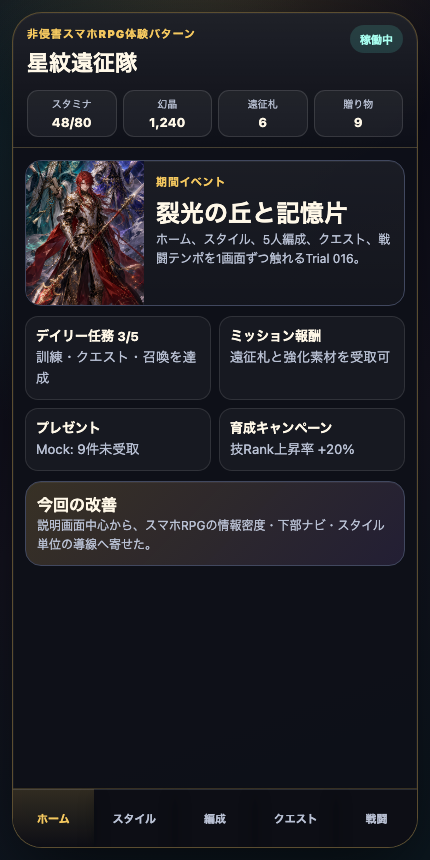
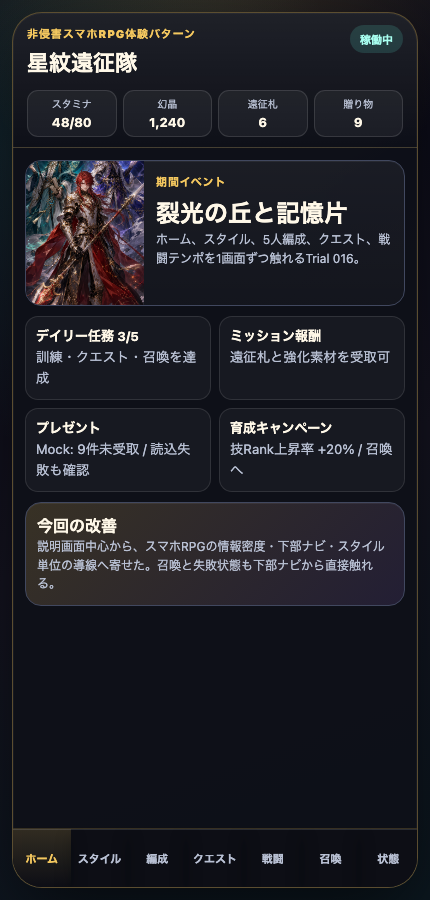
feat: improve sagaforge trial016 playable navigation

diff --git a/playables/sagaforge-app/index.html b/playables/sagaforge-app/index.html
@@ -5,7 +5,7 @@
   <meta name="viewport" content="width=device-width, initial-scale=1" />
   <title>星紋遠征隊 SagaForge Trial 016</title>
   <style>
-    :root{--bg:#060713;--surface:#151823;--surface2:#22283a;--panel:#10131e;--line:#41485f;--text:#fff8e8;--muted:#b9c1d4;--accent:#f4c85f;--accent2:#5be7d2;--accent3:#b987ff;--danger:#ff6b7c;--ok:#7df29b}*{box-sizing:border-box}body{margin:0;min-height:100vh;background:radial-gradient(circle at 50% -10%,rgba(244,200,95,.22),transparent 30%),radial-gradient(circle at 10% 15%,rgba(91,231,210,.13),transparent 36%),linear-gradient(160deg,#060713,#151421 55%,#0c1820);color:var(--text);font-family:system-ui,-apple-system,BlinkMacSystemFont,"Segoe UI",sans-serif}.wrap{min-height:100vh;display:flex;justify-content:center;padding:12px}.phone{width:min(100%,430px);min-height:calc(100vh - 24px);border:1px solid rgba(244,200,95,.34);border-radius:30px;overflow:hidden;background:rgba(13,15,24,.97);box-shadow:0 26px 80px rgba(0,0,0,.58),inset 0 0 0 1px rgba(255,255,255,.04);position:relative}header{padding:12px 14px 10px;border-bottom:1px solid rgba(244,200,95,.18);background:linear-gradient(180deg,rgba(255,255,255,.07),transparent)}h1,h2,h3,p{margin:0}.top{display:flex;align-items:flex-start;justify-content:space-between;gap:10px}.eyebrow{margin-bottom:5px;color:var(--accent);font-size:11px;font-weight:900;letter-spacing:.08em;text-transform:uppercase}h1{font-size:22px}.status{display:inline-flex;align-items:center;border-radius:999px;min-height:28px;padding:0 10px;background:rgba(91,231,210,.16);color:#a8fff0;font-size:11px;font-weight:900}.resources{display:grid;grid-template-columns:repeat(4,1fr);gap:6px;margin-top:10px}.resource{border:1px solid rgba(255,255,255,.12);border-radius:11px;background:rgba(255,255,255,.05);padding:6px;text-align:center}.resource span{display:block;color:var(--muted);font-size:10px}.resource b{font-size:13px}.content{padding:12px 12px 80px}.screen{display:none;gap:10px}.screen.active{display:grid}.bottom-nav{position:absolute;left:0;right:0;bottom:0;display:grid;grid-template-columns:repeat(5,1fr);gap:0;border-top:1px solid rgba(244,200,95,.2);background:rgba(12,14,21,.96);backdrop-filter:blur(10px);z-index:5}.bottom-nav button{border:0;border-radius:0;min-height:58px;padding:6px 2px;background:transparent;color:var(--muted);font:inherit;font-size:11px;font-weight:900}.bottom-nav button.active{color:var(--accent);background:linear-gradient(180deg,rgba(244,200,95,.16),transparent)}button{cursor:pointer;border:0;border-radius:999px;min-height:38px;padding:0 13px;background:linear-gradient(180deg,#354057,#202637);color:var(--text);font:inherit;font-weight:900;box-shadow:inset 0 1px 0 rgba(255,255,255,.13),0 7px 15px rgba(0,0,0,.25)}button.primary{background:linear-gradient(180deg,#ffe293,#d7961c);color:#271704}.card,.panel,.banner{border:1px solid var(--line);border-radius:16px;background:linear-gradient(180deg,rgba(255,255,255,.055),rgba(255,255,255,.025));box-shadow:inset 0 1px 0 rgba(255,255,255,.06)}.panel{padding:12px}.muted{color:var(--muted);font-size:12px;line-height:1.55}.hero{display:grid;grid-template-columns:118px 1fr;min-height:146px;overflow:hidden}.art{background-size:cover;background-position:center;min-height:120px}.hero-copy{padding:12px}.banner{padding:11px;background:linear-gradient(135deg,rgba(244,200,95,.18),rgba(185,135,255,.12))}.home-grid{display:grid;grid-template-columns:1fr 1fr;gap:8px}.mission{padding:10px;border-radius:13px;border:1px solid rgba(255,255,255,.11);background:rgba(255,255,255,.04)}.mission b{display:block;font-size:13px}.mission small{color:var(--muted)}.styles{display:grid;gap:8px}.style-card{display:grid;grid-template-columns:52px 1fr auto;gap:9px;align-items:center;padding:9px;border:1px solid rgba(255,255,255,.12);border-radius:15px;background:linear-gradient(135deg,rgba(244,200,95,.12),rgba(91,231,210,.05))}.portrait{width:52px;height:52px;border-radius:15px;background:radial-gradient(circle at 35% 20%,#fff3bd,transparent 18%),linear-gradient(140deg,#6047b8,#151823 58%,#d99c2f);border:1px solid rgba(244,200,95,.35)}.tags{display:flex;flex-wrap:wrap;gap:4px;margin-top:4px}.tag{font-size:10px;border:1px solid rgba(255,255,255,.16);border-radius:999px;padding:2px 6px;color:#dce5ff;background:rgba(0,0,0,.16)}.rarity{color:var(--accent);font-weight:1000;font-size:13px;text-align:right}.party-art{border-radius:16px;min-height:110px;border:1px solid var(--line)}.formation{display:grid;grid-template-columns:1fr 1fr;gap:8px}.slot{min-height:80px;border:1px solid rgba(255,255,255,.14);border-radius:14px;background:rgba(255,255,255,.045);padding:8px;position:relative}.slot.front{border-color:rgba(244,200,95,.45)}.slot span{display:inline-block;color:var(--accent2);font-size:10px;font-weight:900}.slot b{display:block;font-size:13px}.slot small{color:var(--muted)}.slot button{min-height:26px;font-size:10px;padding:0 8px;margin-top:5px}.power{display:grid;grid-template-columns:1fr 1fr;gap:8px}.metric{border:1px solid rgba(255,255,255,.12);border-radius:12px;padding:8px;background:rgba(255,255,255,.04)}.metric span{display:block;color:var(--muted);font-size:10px}.metric b{font-size:16px}.quests{display:grid;gap:8px}.quest{display:grid;grid-template-columns:1fr auto;gap:8px;align-items:center;padding:10px;border:1px solid rgba(255,255,255,.12);border-radius:14px;background:rgba(255,255,255,.04)}.quest.selected{border-color:rgba(244,200,95,.75);background:rgba(244,200,95,.12)}.quest small{color:var(--muted)}.battle-stage{min-height:178px;border:1px solid var(--line);border-radius:18px;background-size:cover;background-position:center;position:relative;overflow:hidden}.round{position:absolute;left:10px;top:9px;background:rgba(0,0,0,.5);border:1px solid rgba(244,200,95,.38);border-radius:999px;padding:5px 9px;font-size:11px;font-weight:900}.enemy-row{position:absolute;right:14px;top:44px;display:flex;gap:5px}.enemy{width:70px;height:82px;background-size:contain;background-repeat:no-repeat;background-position:center bottom;filter:drop-shadow(0 10px 18px rgba(0,0,0,.55));position:relative}.enemy span{position:absolute;left:-8px;right:-8px;bottom:-16px;text-align:center;font-size:10px;font-weight:900}.heroes{position:absolute;left:12px;right:12px;bottom:14px;display:flex;justify-content:space-between}.heroes span{width:42px;height:42px;border-radius:50%;display:grid;place-items:center;background:linear-gradient(160deg,#ffe19a,#684baf);border:2px solid rgba(255,255,255,.34);font-size:12px;font-weight:900}.flash{position:absolute;left:50%;top:48%;transform:translate(-50%,-50%);border-radius:999px;padding:8px 14px;background:rgba(244,200,95,.9);color:#201000;font-weight:1000;opacity:0;transition:.25s}.flash.show{opacity:1}.bars{display:grid;gap:6px}.bar{height:26px;border:1px solid rgba(255,255,255,.12);border-radius:999px;overflow:hidden;background:#151923;position:relative}.bar i{display:block;height:100%;background:linear-gradient(90deg,#63f0a1,#20b869)}.bar i.enemybar{background:linear-gradient(90deg,#ff9d6b,#e64765)}.bar b,.bar strong{position:absolute;top:4px;font-size:11px}.bar b{left:9px}.bar strong{right:9px}.command-grid{display:grid;grid-template-columns:1fr 1fr;gap:8px}.command-grid button{border-radius:14px;min-height:48px}.bp{color:var(--accent2);font-size:11px}.logs{max-height:126px;overflow:auto;margin:0;padding:0;list-style:none;display:grid;gap:6px}.logs li{border:1px solid rgba(255,255,255,.1);border-radius:10px;padding:7px;background:rgba(0,0,0,.18);font-size:12px}.results{display:grid;grid-template-columns:repeat(2,1fr);gap:8px}.result{min-height:82px;border:1px solid rgba(255,255,255,.13);border-radius:14px;padding:9px;background:linear-gradient(140deg,rgba(244,200,95,.12),rgba(185,135,255,.11))}.result span{display:inline-block;color:var(--accent);font-weight:1000}.result b{display:block}.result small{color:var(--muted)}.summon{display:grid;place-items:center;min-height:170px;border-radius:18px;border:1px solid var(--line)}.orb{width:126px;height:126px;border-radius:50%;display:grid;place-items:center;background:radial-gradient(circle,#fff2b6,#d4931d 48%,rgba(185,135,255,.5));color:#211000;font-weight:1000;box-shadow:0 0 42px rgba(244,200,95,.38)}.state-grid{display:grid;grid-template-columns:1fr 1fr;gap:8px}.danger{border-color:rgba(255,107,124,.55);background:rgba(255,107,124,.12)}.reward{border-color:rgba(125,242,155,.45);background:rgba(125,242,155,.1)}
+    :root{--bg:#060713;--surface:#151823;--surface2:#22283a;--panel:#10131e;--line:#41485f;--text:#fff8e8;--muted:#b9c1d4;--accent:#f4c85f;--accent2:#5be7d2;--accent3:#b987ff;--danger:#ff6b7c;--ok:#7df29b}*{box-sizing:border-box}body{margin:0;min-height:100vh;background:radial-gradient(circle at 50% -10%,rgba(244,200,95,.22),transparent 30%),radial-gradient(circle at 10% 15%,rgba(91,231,210,.13),transparent 36%),linear-gradient(160deg,#060713,#151421 55%,#0c1820);color:var(--text);font-family:system-ui,-apple-system,BlinkMacSystemFont,"Segoe UI",sans-serif}.wrap{min-height:100vh;display:flex;justify-content:center;padding:12px}.phone{width:min(100%,430px);min-height:calc(100vh - 24px);border:1px solid rgba(244,200,95,.34);border-radius:30px;overflow:hidden;background:rgba(13,15,24,.97);box-shadow:0 26px 80px rgba(0,0,0,.58),inset 0 0 0 1px rgba(255,255,255,.04);position:relative}header{padding:12px 14px 10px;border-bottom:1px solid rgba(244,200,95,.18);background:linear-gradient(180deg,rgba(255,255,255,.07),transparent)}h1,h2,h3,p{margin:0}.top{display:flex;align-items:flex-start;justify-content:space-between;gap:10px}.eyebrow{margin-bottom:5px;color:var(--accent);font-size:11px;font-weight:900;letter-spacing:.08em;text-transform:uppercase}h1{font-size:22px}.status{display:inline-flex;align-items:center;border-radius:999px;min-height:28px;padding:0 10px;background:rgba(91,231,210,.16);color:#a8fff0;font-size:11px;font-weight:900}.resources{display:grid;grid-template-columns:repeat(4,1fr);gap:6px;margin-top:10px}.resource{border:1px solid rgba(255,255,255,.12);border-radius:11px;background:rgba(255,255,255,.05);padding:6px;text-align:center}.resource span{display:block;color:var(--muted);font-size:10px}.resource b{font-size:13px}.content{padding:12px 12px 80px}.screen{display:none;gap:10px}.screen.active{display:grid}.bottom-nav{position:absolute;left:0;right:0;bottom:0;display:grid;grid-template-columns:repeat(7,1fr);gap:0;border-top:1px solid rgba(244,200,95,.2);background:rgba(12,14,21,.96);backdrop-filter:blur(10px);z-index:5}.bottom-nav button{border:0;border-radius:0;min-height:58px;padding:6px 2px;background:transparent;color:var(--muted);font:inherit;font-size:11px;font-weight:900}.bottom-nav button.active{color:var(--accent);background:linear-gradient(180deg,rgba(244,200,95,.16),transparent)}button{cursor:pointer;border:0;border-radius:999px;min-height:38px;padding:0 13px;background:linear-gradient(180deg,#354057,#202637);color:var(--text);font:inherit;font-weight:900;box-shadow:inset 0 1px 0 rgba(255,255,255,.13),0 7px 15px rgba(0,0,0,.25)}button.primary{background:linear-gradient(180deg,#ffe293,#d7961c);color:#271704}.card,.panel,.banner{border:1px solid var(--line);border-radius:16px;background:linear-gradient(180deg,rgba(255,255,255,.055),rgba(255,255,255,.025));box-shadow:inset 0 1px 0 rgba(255,255,255,.06)}.panel{padding:12px}.muted{color:var(--muted);font-size:12px;line-height:1.55}.hero{display:grid;grid-template-columns:118px 1fr;min-height:146px;overflow:hidden}.art{background-size:cover;background-position:center;min-height:120px}.hero-copy{padding:12px}.banner{padding:11px;background:linear-gradient(135deg,rgba(244,200,95,.18),rgba(185,135,255,.12))}.home-grid{display:grid;grid-template-columns:1fr 1fr;gap:8px}.mission{padding:10px;border-radius:13px;border:1px solid rgba(255,255,255,.11);background:rgba(255,255,255,.04)}.mission b{display:block;font-size:13px}.mission small{color:var(--muted)}.styles{display:grid;gap:8px}.style-card{display:grid;grid-template-columns:52px 1fr auto;gap:9px;align-items:center;padding:9px;border:1px solid rgba(255,255,255,.12);border-radius:15px;background:linear-gradient(135deg,rgba(244,200,95,.12),rgba(91,231,210,.05))}.portrait{width:52px;height:52px;border-radius:15px;background:radial-gradient(circle at 35% 20%,#fff3bd,transparent 18%),linear-gradient(140deg,#6047b8,#151823 58%,#d99c2f);border:1px solid rgba(244,200,95,.35)}.tags{display:flex;flex-wrap:wrap;gap:4px;margin-top:4px}.tag{font-size:10px;border:1px solid rgba(255,255,255,.16);border-radius:999px;padding:2px 6px;color:#dce5ff;background:rgba(0,0,0,.16)}.rarity{color:var(--accent);font-weight:1000;font-size:13px;text-align:right}.party-art{border-radius:16px;min-height:110px;border:1px solid var(--line)}.formation{display:grid;grid-template-columns:1fr 1fr;gap:8px}.slot{min-height:80px;border:1px solid rgba(255,255,255,.14);border-radius:14px;background:rgba(255,255,255,.045);padding:8px;position:relative}.slot.front{border-color:rgba(244,200,95,.45)}.slot span{display:inline-block;color:var(--accent2);font-size:10px;font-weight:900}.slot b{display:block;font-size:13px}.slot small{color:var(--muted)}.slot button{min-height:26px;font-size:10px;padding:0 8px;margin-top:5px}.power{display:grid;grid-template-columns:1fr 1fr;gap:8px}.metric{border:1px solid rgba(255,255,255,.12);border-radius:12px;padding:8px;background:rgba(255,255,255,.04)}.metric span{display:block;color:var(--muted);font-size:10px}.metric b{font-size:16px}.quests{display:grid;gap:8px}.quest{display:grid;grid-template-columns:1fr auto;gap:8px;align-items:center;padding:10px;border:1px solid rgba(255,255,255,.12);border-radius:14px;background:rgba(255,255,255,.04)}.quest.selected{border-color:rgba(244,200,95,.75);background:rgba(244,200,95,.12)}.quest small{color:var(--muted)}.battle-stage{min-height:178px;border:1px solid var(--line);border-radius:18px;background-size:cover;background-position:center;position:relative;overflow:hidden}.round{position:absolute;left:10px;top:9px;background:rgba(0,0,0,.5);border:1px solid rgba(244,200,95,.38);border-radius:999px;padding:5px 9px;font-size:11px;font-weight:900}.enemy-row{position:absolute;right:14px;top:44px;display:flex;gap:5px}.enemy{width:70px;height:82px;background-size:contain;background-repeat:no-repeat;background-position:center bottom;filter:drop-shadow(0 10px 18px rgba(0,0,0,.55));position:relative}.enemy span{position:absolute;left:-8px;right:-8px;bottom:-16px;text-align:center;font-size:10px;font-weight:900}.heroes{position:absolute;left:12px;right:12px;bottom:14px;display:flex;justify-content:space-between}.heroes span{width:42px;height:42px;border-radius:50%;display:grid;place-items:center;background:linear-gradient(160deg,#ffe19a,#684baf);border:2px solid rgba(255,255,255,.34);font-size:12px;font-weight:900}.flash{position:absolute;left:50%;top:48%;transform:translate(-50%,-50%);border-radius:999px;padding:8px 14px;background:rgba(244,200,95,.9);color:#201000;font-weight:1000;opacity:0;transition:.25s}.flash.show{opacity:1}.bars{display:grid;gap:6px}.bar{height:26px;border:1px solid rgba(255,255,255,.12);border-radius:999px;overflow:hidden;background:#151923;position:relative}.bar i{display:block;height:100%;background:linear-gradient(90deg,#63f0a1,#20b869)}.bar i.enemybar{background:linear-gradient(90deg,#ff9d6b,#e64765)}.bar b,.bar strong{position:absolute;top:4px;font-size:11px}.bar b{left:9px}.bar strong{right:9px}.command-grid{display:grid;grid-template-columns:1fr 1fr;gap:8px}.command-grid button{border-radius:14px;min-height:48px}.bp{color:var(--accent2);font-size:11px}.logs{max-height:126px;overflow:auto;margin:0;padding:0;list-style:none;display:grid;gap:6px}.logs li{border:1px solid rgba(255,255,255,.1);border-radius:10px;padding:7px;background:rgba(0,0,0,.18);font-size:12px}.results{display:grid;grid-template-columns:repeat(2,1fr);gap:8px}.result{min-height:82px;border:1px solid rgba(255,255,255,.13);border-radius:14px;padding:9px;background:linear-gradient(140deg,rgba(244,200,95,.12),rgba(185,135,255,.11))}.result span{display:inline-block;color:var(--accent);font-weight:1000}.result b{display:block}.result small{color:var(--muted)}.summon{display:grid;place-items:center;min-height:170px;border-radius:18px;border:1px solid var(--line)}.orb{width:126px;height:126px;border-radius:50%;display:grid;place-items:center;background:radial-gradient(circle,#fff2b6,#d4931d 48%,rgba(185,135,255,.5));color:#211000;font-weight:1000;box-shadow:0 0 42px rgba(244,200,95,.38)}.state-grid{display:grid;grid-template-columns:1fr 1fr;gap:8px}.danger{border-color:rgba(255,107,124,.55);background:rgba(255,107,124,.12)}.reward{border-color:rgba(125,242,155,.45);background:rgba(125,242,155,.1)}
   </style>
 </head>
 <body>
@@ -17,8 +17,8 @@
   <section class="content">
     <div class="screen active" id="home">
       <div class="card hero"><div class="art key" style="background-image:url(assets/party-key-art.png)"></div><div class="hero-copy"><p class="eyebrow">期間イベント</p><h2>裂光の丘と記憶片</h2><p class="muted">ホーム、スタイル、5人編成、クエスト、戦闘テンポを1画面ずつ触れるTrial 016。</p></div></div>
-      <div class="home-grid"><div class="mission"><b>デイリー任務 3/5</b><small>訓練・クエスト・召喚を達成</small></div><div class="mission"><b>ミッション報酬</b><small>遠征札と強化素材を受取可</small></div><div class="mission"><b>プレゼント</b><small>Mock: 9件未受取</small></div><div class="mission"><b>育成キャンペーン</b><small>技Rank上昇率 +20%</small></div></div>
-      <div class="banner"><b>今回の改善</b><p class="muted">説明画面中心から、スマホRPGの情報密度・下部ナビ・スタイル単位の導線へ寄せた。</p></div>
+      <div class="home-grid"><div class="mission" onclick="go('styles')"><b>デイリー任務 3/5</b><small>訓練・クエスト・召喚を達成</small></div><div class="mission" onclick="go('quests')"><b>ミッション報酬</b><small>遠征札と強化素材を受取可</small></div><div class="mission" onclick="go('state')"><b>プレゼント</b><small>Mock: 9件未受取 / 読込失敗も確認</small></div><div class="mission" onclick="go('gacha')"><b>育成キャンペーン</b><small>技Rank上昇率 +20% / 召喚へ</small></div></div>
+      <div class="banner"><b>今回の改善</b><p class="muted">説明画面中心から、スマホRPGの情報密度・下部ナビ・スタイル単位の導線へ寄せた。召喚と失敗状態も下部ナビから直接触れる。</p></div>
     </div>
 
     <div class="screen" id="styles">
@@ -62,7 +62,7 @@
   <nav class="bottom-nav" id="tabs"></nav>
 </main></div>
 <script>
-const tabs=[['home','ホーム'],['styles','スタイル'],['party','編成'],['quests','クエスト'],['battle','戦闘']];
+const tabs=[['home','ホーム'],['styles','スタイル'],['party','編成'],['quests','クエスト'],['battle','戦闘'],['gacha','召喚'],['state','状態']];
 const styles=[
  {name:'紅槍リオ【朱き先陣】',rare:'SS',role:'前衛',weapon:'槍',attr:'火',power:9120,lv:42,rank:18,limit:2},
  {name:'翠策ミナ【風読みの軍師】',rare:'SS',role:'支援',weapon:'杖',attr:'風',power:8840,lv:41,rank:16,limit:1},

diff --git a/preview/sagaforge-app/index.html b/preview/sagaforge-app/index.html
@@ -5,7 +5,7 @@
   <meta name="viewport" content="width=device-width, initial-scale=1" />
   <title>星紋遠征隊 SagaForge Trial 016</title>
   <style>
-    :root{--bg:#060713;--surface:#151823;--surface2:#22283a;--panel:#10131e;--line:#41485f;--text:#fff8e8;--muted:#b9c1d4;--accent:#f4c85f;--accent2:#5be7d2;--accent3:#b987ff;--danger:#ff6b7c;--ok:#7df29b}*{box-sizing:border-box}body{margin:0;min-height:100vh;background:radial-gradient(circle at 50% -10%,rgba(244,200,95,.22),transparent 30%),radial-gradient(circle at 10% 15%,rgba(91,231,210,.13),transparent 36%),linear-gradient(160deg,#060713,#151421 55%,#0c1820);color:var(--text);font-family:system-ui,-apple-system,BlinkMacSystemFont,"Segoe UI",sans-serif}.wrap{min-height:100vh;display:flex;justify-content:center;padding:12px}.phone{width:min(100%,430px);min-height:calc(100vh - 24px);border:1px solid rgba(244,200,95,.34);border-radius:30px;overflow:hidden;background:rgba(13,15,24,.97);box-shadow:0 26px 80px rgba(0,0,0,.58),inset 0 0 0 1px rgba(255,255,255,.04);position:relative}header{padding:12px 14px 10px;border-bottom:1px solid rgba(244,200,95,.18);background:linear-gradient(180deg,rgba(255,255,255,.07),transparent)}h1,h2,h3,p{margin:0}.top{display:flex;align-items:flex-start;justify-content:space-between;gap:10px}.eyebrow{margin-bottom:5px;color:var(--accent);font-size:11px;font-weight:900;letter-spacing:.08em;text-transform:uppercase}h1{font-size:22px}.status{display:inline-flex;align-items:center;border-radius:999px;min-height:28px;padding:0 10px;background:rgba(91,231,210,.16);color:#a8fff0;font-size:11px;font-weight:900}.resources{display:grid;grid-template-columns:repeat(4,1fr);gap:6px;margin-top:10px}.resource{border:1px solid rgba(255,255,255,.12);border-radius:11px;background:rgba(255,255,255,.05);padding:6px;text-align:center}.resource span{display:block;color:var(--muted);font-size:10px}.resource b{font-size:13px}.content{padding:12px 12px 80px}.screen{display:none;gap:10px}.screen.active{display:grid}.bottom-nav{position:absolute;left:0;right:0;bottom:0;display:grid;grid-template-columns:repeat(5,1fr);gap:0;border-top:1px solid rgba(244,200,95,.2);background:rgba(12,14,21,.96);backdrop-filter:blur(10px);z-index:5}.bottom-nav button{border:0;border-radius:0;min-height:58px;padding:6px 2px;background:transparent;color:var(--muted);font:inherit;font-size:11px;font-weight:900}.bottom-nav button.active{color:var(--accent);background:linear-gradient(180deg,rgba(244,200,95,.16),transparent)}button{cursor:pointer;border:0;border-radius:999px;min-height:38px;padding:0 13px;background:linear-gradient(180deg,#354057,#202637);color:var(--text);font:inherit;font-weight:900;box-shadow:inset 0 1px 0 rgba(255,255,255,.13),0 7px 15px rgba(0,0,0,.25)}button.primary{background:linear-gradient(180deg,#ffe293,#d7961c);color:#271704}.card,.panel,.banner{border:1px solid var(--line);border-radius:16px;background:linear-gradient(180deg,rgba(255,255,255,.055),rgba(255,255,255,.025));box-shadow:inset 0 1px 0 rgba(255,255,255,.06)}.panel{padding:12px}.muted{color:var(--muted);font-size:12px;line-height:1.55}.hero{display:grid;grid-template-columns:118px 1fr;min-height:146px;overflow:hidden}.art{background-size:cover;background-position:center;min-height:120px}.hero-copy{padding:12px}.banner{padding:11px;background:linear-gradient(135deg,rgba(244,200,95,.18),rgba(185,135,255,.12))}.home-grid{display:grid;grid-template-columns:1fr 1fr;gap:8px}.mission{padding:10px;border-radius:13px;border:1px solid rgba(255,255,255,.11);background:rgba(255,255,255,.04)}.mission b{display:block;font-size:13px}.mission small{color:var(--muted)}.styles{display:grid;gap:8px}.style-card{display:grid;grid-template-columns:52px 1fr auto;gap:9px;align-items:center;padding:9px;border:1px solid rgba(255,255,255,.12);border-radius:15px;background:linear-gradient(135deg,rgba(244,200,95,.12),rgba(91,231,210,.05))}.portrait{width:52px;height:52px;border-radius:15px;background:radial-gradient(circle at 35% 20%,#fff3bd,transparent 18%),linear-gradient(140deg,#6047b8,#151823 58%,#d99c2f);border:1px solid rgba(244,200,95,.35)}.tags{display:flex;flex-wrap:wrap;gap:4px;margin-top:4px}.tag{font-size:10px;border:1px solid rgba(255,255,255,.16);border-radius:999px;padding:2px 6px;color:#dce5ff;background:rgba(0,0,0,.16)}.rarity{color:var(--accent);font-weight:1000;font-size:13px;text-align:right}.party-art{border-radius:16px;min-height:110px;border:1px solid var(--line)}.formation{display:grid;grid-template-columns:1fr 1fr;gap:8px}.slot{min-height:80px;border:1px solid rgba(255,255,255,.14);border-radius:14px;background:rgba(255,255,255,.045);padding:8px;position:relative}.slot.front{border-color:rgba(244,200,95,.45)}.slot span{display:inline-block;color:var(--accent2);font-size:10px;font-weight:900}.slot b{display:block;font-size:13px}.slot small{color:var(--muted)}.slot button{min-height:26px;font-size:10px;padding:0 8px;margin-top:5px}.power{display:grid;grid-template-columns:1fr 1fr;gap:8px}.metric{border:1px solid rgba(255,255,255,.12);border-radius:12px;padding:8px;background:rgba(255,255,255,.04)}.metric span{display:block;color:var(--muted);font-size:10px}.metric b{font-size:16px}.quests{display:grid;gap:8px}.quest{display:grid;grid-template-columns:1fr auto;gap:8px;align-items:center;padding:10px;border:1px solid rgba(255,255,255,.12);border-radius:14px;background:rgba(255,255,255,.04)}.quest.selected{border-color:rgba(244,200,95,.75);background:rgba(244,200,95,.12)}.quest small{color:var(--muted)}.battle-stage{min-height:178px;border:1px solid var(--line);border-radius:18px;background-size:cover;background-position:center;position:relative;overflow:hidden}.round{position:absolute;left:10px;top:9px;background:rgba(0,0,0,.5);border:1px solid rgba(244,200,95,.38);border-radius:999px;padding:5px 9px;font-size:11px;font-weight:900}.enemy-row{position:absolute;right:14px;top:44px;display:flex;gap:5px}.enemy{width:70px;height:82px;background-size:contain;background-repeat:no-repeat;background-position:center bottom;filter:drop-shadow(0 10px 18px rgba(0,0,0,.55));position:relative}.enemy span{position:absolute;left:-8px;right:-8px;bottom:-16px;text-align:center;font-size:10px;font-weight:900}.heroes{position:absolute;left:12px;right:12px;bottom:14px;display:flex;justify-content:space-between}.heroes span{width:42px;height:42px;border-radius:50%;display:grid;place-items:center;background:linear-gradient(160deg,#ffe19a,#684baf);border:2px solid rgba(255,255,255,.34);font-size:12px;font-weight:900}.flash{position:absolute;left:50%;top:48%;transform:translate(-50%,-50%);border-radius:999px;padding:8px 14px;background:rgba(244,200,95,.9);color:#201000;font-weight:1000;opacity:0;transition:.25s}.flash.show{opacity:1}.bars{display:grid;gap:6px}.bar{height:26px;border:1px solid rgba(255,255,255,.12);border-radius:999px;overflow:hidden;background:#151923;position:relative}.bar i{display:block;height:100%;background:linear-gradient(90deg,#63f0a1,#20b869)}.bar i.enemybar{background:linear-gradient(90deg,#ff9d6b,#e64765)}.bar b,.bar strong{position:absolute;top:4px;font-size:11px}.bar b{left:9px}.bar strong{right:9px}.command-grid{display:grid;grid-template-columns:1fr 1fr;gap:8px}.command-grid button{border-radius:14px;min-height:48px}.bp{color:var(--accent2);font-size:11px}.logs{max-height:126px;overflow:auto;margin:0;padding:0;list-style:none;display:grid;gap:6px}.logs li{border:1px solid rgba(255,255,255,.1);border-radius:10px;padding:7px;background:rgba(0,0,0,.18);font-size:12px}.results{display:grid;grid-template-columns:repeat(2,1fr);gap:8px}.result{min-height:82px;border:1px solid rgba(255,255,255,.13);border-radius:14px;padding:9px;background:linear-gradient(140deg,rgba(244,200,95,.12),rgba(185,135,255,.11))}.result span{display:inline-block;color:var(--accent);font-weight:1000}.result b{display:block}.result small{color:var(--muted)}.summon{display:grid;place-items:center;min-height:170px;border-radius:18px;border:1px solid var(--line)}.orb{width:126px;height:126px;border-radius:50%;display:grid;place-items:center;background:radial-gradient(circle,#fff2b6,#d4931d 48%,rgba(185,135,255,.5));color:#211000;font-weight:1000;box-shadow:0 0 42px rgba(244,200,95,.38)}.state-grid{display:grid;grid-template-columns:1fr 1fr;gap:8px}.danger{border-color:rgba(255,107,124,.55);background:rgba(255,107,124,.12)}.reward{border-color:rgba(125,242,155,.45);background:rgba(125,242,155,.1)}
+    :root{--bg:#060713;--surface:#151823;--surface2:#22283a;--panel:#10131e;--line:#41485f;--text:#fff8e8;--muted:#b9c1d4;--accent:#f4c85f;--accent2:#5be7d2;--accent3:#b987ff;--danger:#ff6b7c;--ok:#7df29b}*{box-sizing:border-box}body{margin:0;min-height:100vh;background:radial-gradient(circle at 50% -10%,rgba(244,200,95,.22),transparent 30%),radial-gradient(circle at 10% 15%,rgba(91,231,210,.13),transparent 36%),linear-gradient(160deg,#060713,#151421 55%,#0c1820);color:var(--text);font-family:system-ui,-apple-system,BlinkMacSystemFont,"Segoe UI",sans-serif}.wrap{min-height:100vh;display:flex;justify-content:center;padding:12px}.phone{width:min(100%,430px);min-height:calc(100vh - 24px);border:1px solid rgba(244,200,95,.34);border-radius:30px;overflow:hidden;background:rgba(13,15,24,.97);box-shadow:0 26px 80px rgba(0,0,0,.58),inset 0 0 0 1px rgba(255,255,255,.04);position:relative}header{padding:12px 14px 10px;border-bottom:1px solid rgba(244,200,95,.18);background:linear-gradient(180deg,rgba(255,255,255,.07),transparent)}h1,h2,h3,p{margin:0}.top{display:flex;align-items:flex-start;justify-content:space-between;gap:10px}.eyebrow{margin-bottom:5px;color:var(--accent);font-size:11px;font-weight:900;letter-spacing:.08em;text-transform:uppercase}h1{font-size:22px}.status{display:inline-flex;align-items:center;border-radius:999px;min-height:28px;padding:0 10px;background:rgba(91,231,210,.16);color:#a8fff0;font-size:11px;font-weight:900}.resources{display:grid;grid-template-columns:repeat(4,1fr);gap:6px;margin-top:10px}.resource{border:1px solid rgba(255,255,255,.12);border-radius:11px;background:rgba(255,255,255,.05);padding:6px;text-align:center}.resource span{display:block;color:var(--muted);font-size:10px}.resource b{font-size:13px}.content{padding:12px 12px 80px}.screen{display:none;gap:10px}.screen.active{display:grid}.bottom-nav{position:absolute;left:0;right:0;bottom:0;display:grid;grid-template-columns:repeat(7,1fr);gap:0;border-top:1px solid rgba(244,200,95,.2);background:rgba(12,14,21,.96);backdrop-filter:blur(10px);z-index:5}.bottom-nav button{border:0;border-radius:0;min-height:58px;padding:6px 2px;background:transparent;color:var(--muted);font:inherit;font-size:11px;font-weight:900}.bottom-nav button.active{color:var(--accent);background:linear-gradient(180deg,rgba(244,200,95,.16),transparent)}button{cursor:pointer;border:0;border-radius:999px;min-height:38px;padding:0 13px;background:linear-gradient(180deg,#354057,#202637);color:var(--text);font:inherit;font-weight:900;box-shadow:inset 0 1px 0 rgba(255,255,255,.13),0 7px 15px rgba(0,0,0,.25)}button.primary{background:linear-gradient(180deg,#ffe293,#d7961c);color:#271704}.card,.panel,.banner{border:1px solid var(--line);border-radius:16px;background:linear-gradient(180deg,rgba(255,255,255,.055),rgba(255,255,255,.025));box-shadow:inset 0 1px 0 rgba(255,255,255,.06)}.panel{padding:12px}.muted{color:var(--muted);font-size:12px;line-height:1.55}.hero{display:grid;grid-template-columns:118px 1fr;min-height:146px;overflow:hidden}.art{background-size:cover;background-position:center;min-height:120px}.hero-copy{padding:12px}.banner{padding:11px;background:linear-gradient(135deg,rgba(244,200,95,.18),rgba(185,135,255,.12))}.home-grid{display:grid;grid-template-columns:1fr 1fr;gap:8px}.mission{padding:10px;border-radius:13px;border:1px solid rgba(255,255,255,.11);background:rgba(255,255,255,.04)}.mission b{display:block;font-size:13px}.mission small{color:var(--muted)}.styles{display:grid;gap:8px}.style-card{display:grid;grid-template-columns:52px 1fr auto;gap:9px;align-items:center;padding:9px;border:1px solid rgba(255,255,255,.12);border-radius:15px;background:linear-gradient(135deg,rgba(244,200,95,.12),rgba(91,231,210,.05))}.portrait{width:52px;height:52px;border-radius:15px;background:radial-gradient(circle at 35% 20%,#fff3bd,transparent 18%),linear-gradient(140deg,#6047b8,#151823 58%,#d99c2f);border:1px solid rgba(244,200,95,.35)}.tags{display:flex;flex-wrap:wrap;gap:4px;margin-top:4px}.tag{font-size:10px;border:1px solid rgba(255,255,255,.16);border-radius:999px;padding:2px 6px;color:#dce5ff;background:rgba(0,0,0,.16)}.rarity{color:var(--accent);font-weight:1000;font-size:13px;text-align:right}.party-art{border-radius:16px;min-height:110px;border:1px solid var(--line)}.formation{display:grid;grid-template-columns:1fr 1fr;gap:8px}.slot{min-height:80px;border:1px solid rgba(255,255,255,.14);border-radius:14px;background:rgba(255,255,255,.045);padding:8px;position:relative}.slot.front{border-color:rgba(244,200,95,.45)}.slot span{display:inline-block;color:var(--accent2);font-size:10px;font-weight:900}.slot b{display:block;font-size:13px}.slot small{color:var(--muted)}.slot button{min-height:26px;font-size:10px;padding:0 8px;margin-top:5px}.power{display:grid;grid-template-columns:1fr 1fr;gap:8px}.metric{border:1px solid rgba(255,255,255,.12);border-radius:12px;padding:8px;background:rgba(255,255,255,.04)}.metric span{display:block;color:var(--muted);font-size:10px}.metric b{font-size:16px}.quests{display:grid;gap:8px}.quest{display:grid;grid-template-columns:1fr auto;gap:8px;align-items:center;padding:10px;border:1px solid rgba(255,255,255,.12);border-radius:14px;background:rgba(255,255,255,.04)}.quest.selected{border-color:rgba(244,200,95,.75);background:rgba(244,200,95,.12)}.quest small{color:var(--muted)}.battle-stage{min-height:178px;border:1px solid var(--line);border-radius:18px;background-size:cover;background-position:center;position:relative;overflow:hidden}.round{position:absolute;left:10px;top:9px;background:rgba(0,0,0,.5);border:1px solid rgba(244,200,95,.38);border-radius:999px;padding:5px 9px;font-size:11px;font-weight:900}.enemy-row{position:absolute;right:14px;top:44px;display:flex;gap:5px}.enemy{width:70px;height:82px;background-size:contain;background-repeat:no-repeat;background-position:center bottom;filter:drop-shadow(0 10px 18px rgba(0,0,0,.55));position:relative}.enemy span{position:absolute;left:-8px;right:-8px;bottom:-16px;text-align:center;font-size:10px;font-weight:900}.heroes{position:absolute;left:12px;right:12px;bottom:14px;display:flex;justify-content:space-between}.heroes span{width:42px;height:42px;border-radius:50%;display:grid;place-items:center;background:linear-gradient(160deg,#ffe19a,#684baf);border:2px solid rgba(255,255,255,.34);font-size:12px;font-weight:900}.flash{position:absolute;left:50%;top:48%;transform:translate(-50%,-50%);border-radius:999px;padding:8px 14px;background:rgba(244,200,95,.9);color:#201000;font-weight:1000;opacity:0;transition:.25s}.flash.show{opacity:1}.bars{display:grid;gap:6px}.bar{height:26px;border:1px solid rgba(255,255,255,.12);border-radius:999px;overflow:hidden;background:#151923;position:relative}.bar i{display:block;height:100%;background:linear-gradient(90deg,#63f0a1,#20b869)}.bar i.enemybar{background:linear-gradient(90deg,#ff9d6b,#e64765)}.bar b,.bar strong{position:absolute;top:4px;font-size:11px}.bar b{left:9px}.bar strong{right:9px}.command-grid{display:grid;grid-template-columns:1fr 1fr;gap:8px}.command-grid button{border-radius:14px;min-height:48px}.bp{color:var(--accent2);font-size:11px}.logs{max-height:126px;overflow:auto;margin:0;padding:0;list-style:none;display:grid;gap:6px}.logs li{border:1px solid rgba(255,255,255,.1);border-radius:10px;padding:7px;background:rgba(0,0,0,.18);font-size:12px}.results{display:grid;grid-template-columns:repeat(2,1fr);gap:8px}.result{min-height:82px;border:1px solid rgba(255,255,255,.13);border-radius:14px;padding:9px;background:linear-gradient(140deg,rgba(244,200,95,.12),rgba(185,135,255,.11))}.result span{display:inline-block;color:var(--accent);font-weight:1000}.result b{display:block}.result small{color:var(--muted)}.summon{display:grid;place-items:center;min-height:170px;border-radius:18px;border:1px solid var(--line)}.orb{width:126px;height:126px;border-radius:50%;display:grid;place-items:center;background:radial-gradient(circle,#fff2b6,#d4931d 48%,rgba(185,135,255,.5));color:#211000;font-weight:1000;box-shadow:0 0 42px rgba(244,200,95,.38)}.state-grid{display:grid;grid-template-columns:1fr 1fr;gap:8px}.danger{border-color:rgba(255,107,124,.55);background:rgba(255,107,124,.12)}.reward{border-color:rgba(125,242,155,.45);background:rgba(125,242,155,.1)}
   </style>
 </head>
 <body>
@@ -17,8 +17,8 @@
   <section class="content">
     <div class="screen active" id="home">
       <div class="card hero"><div class="art key" style="background-image:url(assets/party-key-art.png)"></div><div class="hero-copy"><p class="eyebrow">期間イベント</p><h2>裂光の丘と記憶片</h2><p class="muted">ホーム、スタイル、5人編成、クエスト、戦闘テンポを1画面ずつ触れるTrial 016。</p></div></div>
-      <div class="home-grid"><div class="mission"><b>デイリー任務 3/5</b><small>訓練・クエスト・召喚を達成</small></div><div class="mission"><b>ミッション報酬</b><small>遠征札と強化素材を受取可</small></div><div class="mission"><b>プレゼント</b><small>Mock: 9件未受取</small></div><div class="mission"><b>育成キャンペーン</b><small>技Rank上昇率 +20%</small></div></div>
-      <div class="banner"><b>今回の改善</b><p class="muted">説明画面中心から、スマホRPGの情報密度・下部ナビ・スタイル単位の導線へ寄せた。</p></div>
+      <div class="home-grid"><div class="mission" onclick="go('styles')"><b>デイリー任務 3/5</b><small>訓練・クエスト・召喚を達成</small></div><div class="mission" onclick="go('quests')"><b>ミッション報酬</b><small>遠征札と強化素材を受取可</small></div><div class="mission" onclick="go('state')"><b>プレゼント</b><small>Mock: 9件未受取 / 読込失敗も確認</small></div><div class="mission" onclick="go('gacha')"><b>育成キャンペーン</b><small>技Rank上昇率 +20% / 召喚へ</small></div></div>
+      <div class="banner"><b>今回の改善</b><p class="muted">説明画面中心から、スマホRPGの情報密度・下部ナビ・スタイル単位の導線へ寄せた。召喚と失敗状態も下部ナビから直接触れる。</p></div>
     </div>
 
     <div class="screen" id="styles">
@@ -62,7 +62,7 @@
   <nav class="bottom-nav" id="tabs"></nav>
 </main></div>
 <script>
-const tabs=[['home','ホーム'],['styles','スタイル'],['party','編成'],['quests','クエスト'],['battle','戦闘']];
+const tabs=[['home','ホーム'],['styles','スタイル'],['party','編成'],['quests','クエスト'],['battle','戦闘'],['gacha','召喚'],['state','状態']];
 const styles=[
  {name:'紅槍リオ【朱き先陣】',rare:'SS',role:'前衛',weapon:'槍',attr:'火',power:9120,lv:42,rank:18,limit:2},
  {name:'翠策ミナ【風読みの軍師】',rare:'SS',role:'支援',weapon:'杖',attr:'風',power:8840,lv:41,rank:16,limit:1},

diff --git a/preview/2026-07-04-character-collection-rpg-trial-016.html b/preview/2026-07-04-character-collection-rpg-trial-016.html
@@ -250,6 +250,9 @@ th { background:#f1f5f9; }
 <p>「ボタンでHPが少し変わる」だけではなく、BPを消費し、BPが回復し、連携ゲージが上がり、Roundが進む形にした。</p>
 <h3>6. 10連召喚をスタイルカード風にした</h3>
 <p>召喚画面では、10連結果をSS/S/Aのスタイルカードとして表示し、重複時はピース変換になる説明を入れた。公式確率、公式文言、公式UIコピーは使っていない。</p>
+<p><img src="assets/2026-07-04-character-collection-rpg-trial-016-gacha-results.png" alt="Trial 016 Gacha Results" loading="lazy"></p>
+<h3>7. 召喚・状態も下部ナビから直接触れるようにした</h3>
+<p>初回版ではホーム/スタイル/編成/クエスト/戦闘の5タブが中心で、召喚と失敗状態が導線として弱かった。今回の追加確認で、下部ナビを7タブにし、<strong>召喚</strong> と <strong>状態</strong> を常時触れる入口にした。これで「10連結果」と「通信エラー/スタミナ不足/決済失敗」をユーザーが迷わず試せる。</p>
 <h2>失敗状態も残した</h2>
 <p>Playableの状態画面では、次を切り替えられる。</p>
 <ul>
@@ -275,7 +278,9 @@ th { background:#f1f5f9; }
 <pre><code>assets/2026-07-04-character-collection-rpg-trial-016-playable-home.png
 assets/2026-07-04-character-collection-rpg-trial-016-style-cards.png
 assets/2026-07-04-character-collection-rpg-trial-016-formation.png
-assets/2026-07-04-character-collection-rpg-trial-016-battle-tempo.png</code></pre>
+assets/2026-07-04-character-collection-rpg-trial-016-battle-tempo.png
+assets/2026-07-04-character-collection-rpg-trial-016-gacha-results.png
+assets/2026-07-04-character-collection-rpg-trial-016-failure-state.png</code></pre>
 <h2>AIDD-Specへの戻し</h2>
 <pre><code>observed_gap:
   finding: 見た目のRPG化だけでは、ユーザーが期待するスマホキャラ収集RPGの体験構造に届かない

diff --git a/articles/2026-07-04-character-collection-rpg-trial-016.md b/articles/2026-07-04-character-collection-rpg-trial-016.md
@@ -93,6 +93,12 @@
 
 召喚画面では、10連結果をSS/S/Aのスタイルカードとして表示し、重複時はピース変換になる説明を入れた。公式確率、公式文言、公式UIコピーは使っていない。
 
+![Trial 016 Gacha Results](../assets/2026-07-04-character-collection-rpg-trial-016-gacha-results.png)
+
+### 7. 召喚・状態も下部ナビから直接触れるようにした
+
+初回版ではホーム/スタイル/編成/クエスト/戦闘の5タブが中心で、召喚と失敗状態が導線として弱かった。今回の追加確認で、下部ナビを7タブにし、**召喚** と **状態** を常時触れる入口にした。これで「10連結果」と「通信エラー/スタミナ不足/決済失敗」をユーザーが迷わず試せる。
+
 ## 失敗状態も残した
 
 Playableの状態画面では、次を切り替えられる。
@@ -128,6 +134,8 @@ assets/2026-07-04-character-collection-rpg-trial-016-playable-home.png
 assets/2026-07-04-character-collection-rpg-trial-016-style-cards.png
 assets/2026-07-04-character-collection-rpg-trial-016-formation.png
 assets/2026-07-04-character-collection-rpg-trial-016-battle-tempo.png
+assets/2026-07-04-character-collection-rpg-trial-016-gacha-results.png
+assets/2026-07-04-character-collection-rpg-trial-016-failure-state.png
 ```
 
 ## AIDD-Specへの戻し
